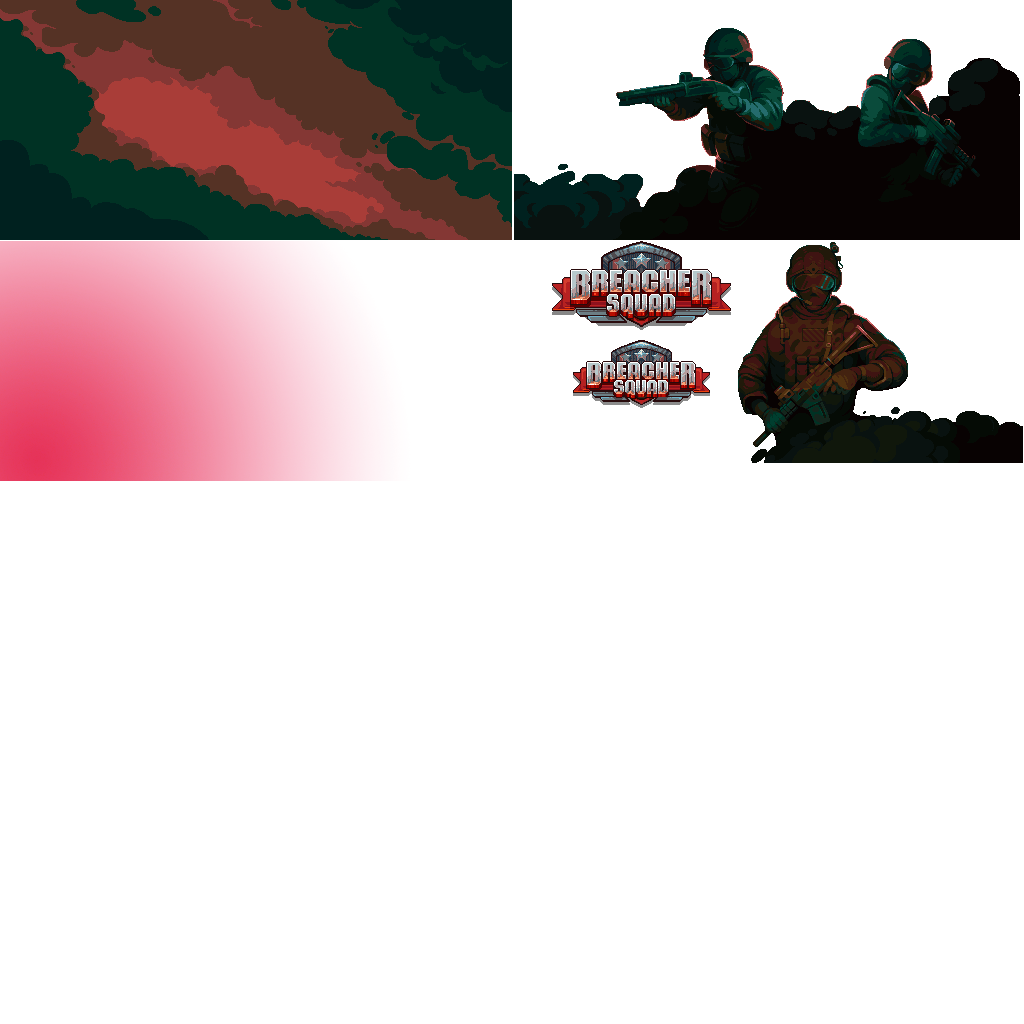
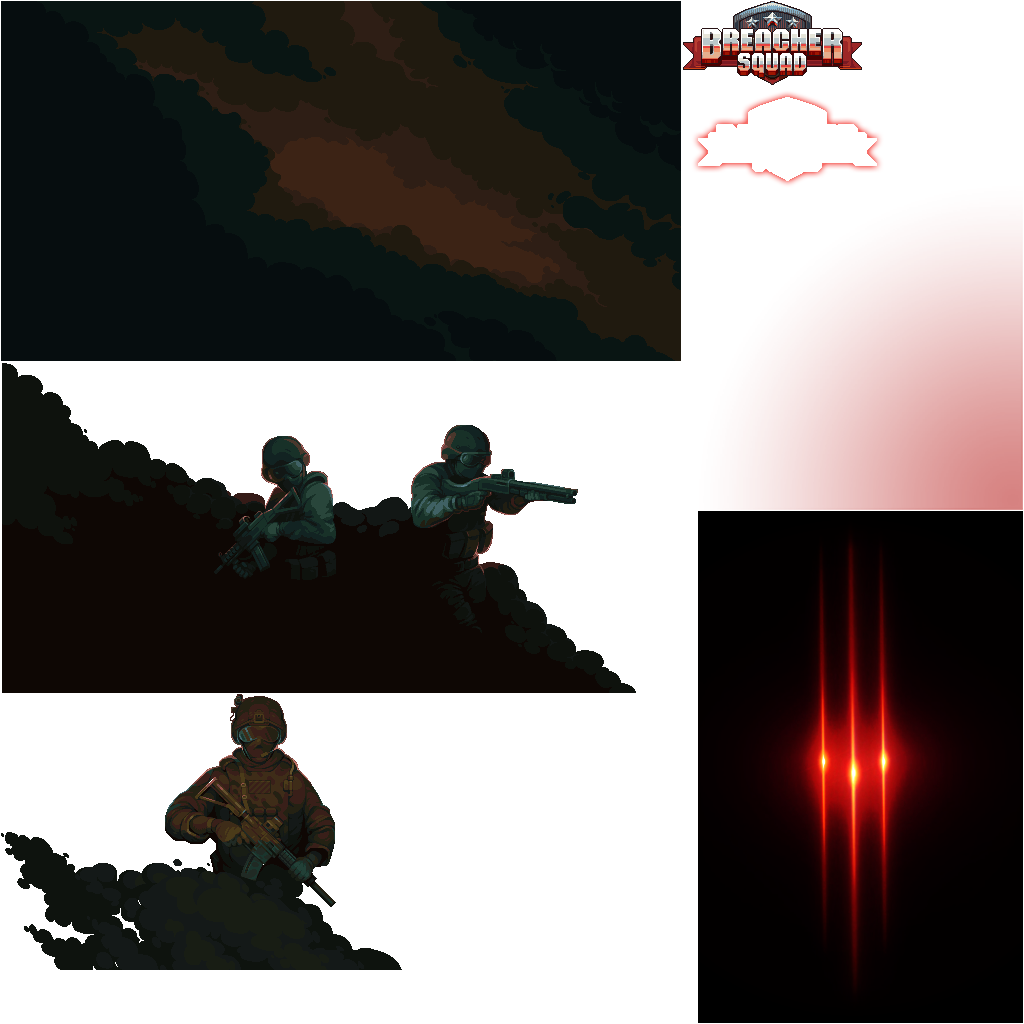
changed main menu art

diff --git a/BreacherSquad/Source/Main.cpp b/BreacherSquad/Source/Main.cpp
@@ -131,7 +131,7 @@ OPRESULT	AfterMount(void);
 // Called after shutting down the device
 void		ShutdownApp(void);
 // Initializes the sound system
-HRESULT		InitSound(void);
+OPRESULT	InitSound(void);
 
 // Transition functions
 void ChangeGameState(eGameState newState, int param1 = 0, int param2 = 0); //are parametru default, in caz ca e necesar
@@ -182,7 +182,8 @@ INT WINAPI WinMain(HINSTANCE hInst, HINSTANCE, LPSTR, int)
 
 	HRESULT hr = S_OK;
 	// Init crash dumper
-	InitMiniDumper();
+	///#TODO: needed?
+	//InitMiniDumper();
 	// init game constants like paths to executable
 	UTApp().Init();
 	// clear debug log file 
@@ -251,16 +252,11 @@ INT WINAPI WinMain(HINSTANCE hInst, HINSTANCE, LPSTR, int)
 
 	// Show the cursor and clip it when in full screen
 	DXUTSetCursorSettings(true, true);
-
 	//for now it can't pause on losing focus
 	g_bCanPause = false;
-
 	if (OP_FAILED(BeforeMount()))
 	{
-		WCHAR szResult[MAX_PATH];
-		StringCchPrintf(szResult, MAX_PATH, L"Ooops, couldn't initialize game (BeforeMount) !\r\nTo fix it, check our support forum or contact us at %s\r\n", K_GAME_EMAIL);
-		MessageBoxW(NULL, szResult, NULL, MB_OK | MB_ICONERROR);
-
+		ErrorBox(K_ERR_CRITICAL, L"Ooops, couldn't initialize game (BeforeMount) !\r\nTo fix it, check our support forum or contact us at %s\r\n", K_GAME_EMAIL );
 		return -1;
 	}
 
@@ -380,7 +376,7 @@ INT WINAPI WinMain(HINSTANCE hInst, HINSTANCE, LPSTR, int)
 #endif
 
 	// Initialize sound
-	V_RETURN(InitSound());
+	V_OP_RET(InitSound());
 
 	//trigger resolution change event immediately
 	CEvent *nevent = new CEvent(CEventTypes::evtT_SYSTEM, CEventCommands::evtC_SYSTEM_RESOLUTION_CHANGE);
@@ -395,10 +391,7 @@ INT WINAPI WinMain(HINSTANCE hInst, HINSTANCE, LPSTR, int)
 	
 	if (OP_FAILED(AfterMount()))
 	{
-		WCHAR szResult[MAX_PATH];
-		StringCchPrintf(szResult, MAX_PATH, L"Ooops, couldn't initialize game (AfterMount) !\r\nTo fix it, check our support forum or contact us at %s\r\n", K_GAME_EMAIL);
-		MessageBoxW(NULL, szResult, NULL, MB_OK | MB_ICONERROR);
-
+		ErrorBox(K_ERR_CRITICAL, L"Couldn't initialize game (AfterMount) !\r\nTo fix it, check our support forum or contact us at %s\r\n", K_GAME_EMAIL );
 		return -1;
 	}
 
@@ -582,7 +575,7 @@ OPRESULT BeforeMount(void)
 
 OPRESULT AfterMount(void)
 {
-	// load the minimum necessary to paint something
+	// load the minimum necessary to paint something (the sprites shader)
 	WCHAR shpath[MAX_PATH];
 	StringCchPrintf(shpath, MAX_PATH, L"%s/shaders/vs_sprites2d.vso", UTApp().g_wszAppResDir);
 	if (OP_FAILED(UTGetShaderManager().AddVShader(shpath, L"VS_SPRITES2D")))
@@ -621,21 +614,19 @@ void ShutdownApp(void)
 // Sound initialization
 //*************************************************************************************************
 
-HRESULT InitSound(void)
+OPRESULT InitSound(void)
 {
-	HRESULT hr = S_OK;
 	// Initialize sound after we have the window
 	//--- init sound system ---
 	if (FAILED(UTGetSoundManager().Init(DXUTGetHWND(), 2, 44100, 16)))
 	{
-		ErrorBox(K_ERR_WARNING, L"Failed INITSOUND->g_pSoundManager->Init()\nSOUNDS WILL BE DISABLED!\n");
-		return hr;
+		return OPRESULT( K_OP_OK_WARNING, L"Failed INITSOUND->g_pSoundManager->Init()\nSOUNDS WILL BE DISABLED!\n", K_SEVERITY_WARNING );
 	}
 
 	UTGetSoundManager().EnablePositionalSounds(Vec2(0.0f, 0.0f), Vec2(UTApp().g_rectRT.w * 0.7f, UTApp().g_rectRT.h * 0.7f));
 	UTGetSoundManager().SetListenerVolumeFadeStart(0.7f);
 
-	return hr;
+	return K_OP_OK;
 }
 
 

diff --git a/BreacherSquad/Source/Engine/MainMenu.cpp b/BreacherSquad/Source/Engine/MainMenu.cpp
@@ -2337,15 +2337,13 @@ void CMainMenu::Paint()
 
 void CMainMenu::PaintBackground(RECTXYWH_F worldRect, DWORD dwColor, bool bPaintParticles, bool bPaintTitle )
 {
+	const Vec2 vLogoPos( 110.0f, 60.0f );
 	//background
-	CSprite::paintFrame(&m_sprColNew, worldRect.Right() - 10.0f * sin(fLocalTimeline * 0.15f), (int)worldRect.y, ANM_MENUS0_SPR_BACKGROUND, 0, dwColor);
-	//paint logo
-	if(bPaintTitle)
-		CSprite::paintFrame(&m_sprColNew, (int)worldRect.x, (int)worldRect.y, ANM_MENUS0_SPR_LOGO_MM, 1);
+	CSprite::paintFrame(&m_sprColNew, worldRect.x - 18.0f * sin(fLocalTimeline * 0.2f), (int)worldRect.y, ANM_MENUS0_SPR_BACKGROUND, 0, dwColor);
 	// chars back layer
-	CSprite::paintFrame(&m_sprColNew, (worldRect.Right() + 8.0f * sin(fLocalTimeline * 0.15f)), (int)worldRect.y, ANM_MENUS0_SPR_BACKGROUND, 1, dwColor);
+	CSprite::paintFrame(&m_sprColNew, (worldRect.x + 18.0f * sin(fLocalTimeline * 0.2f)), (int)worldRect.y, ANM_MENUS0_SPR_BACKGROUND, 1, dwColor);
 	// chars front layer
-	CSprite::paintFrame(&m_sprColNew, (worldRect.Right() + 20.0f * sin(fLocalTimeline * 0.15f)), (int)worldRect.y, ANM_MENUS0_SPR_BACKGROUND, 2, dwColor);
+	CSprite::paintFrame(&m_sprColNew, (worldRect.x + 40.0f * sin(fLocalTimeline * 0.2f)), (int)worldRect.y, ANM_MENUS0_SPR_BACKGROUND, 2, dwColor);
 	//particles
 	if (bPaintParticles)
 	{
@@ -2361,12 +2359,31 @@ void CMainMenu::PaintBackground(RECTXYWH_F worldRect, DWORD dwColor, bool bPaint
 		m_pDevice->SetSamplerState(0, D3DSAMP_MINFILTER, D3DTEXF_POINT);
 		m_pDevice->SetSamplerState(0, D3DSAMP_MAGFILTER, D3DTEXF_POINT);
 	}
+
 	//paint character flickering orange light
 	AdditiveBlendingON(m_pDevice, m_pSprite);
-	float alpha = UTPerlin::PerlinNoise1D(fLocalTimeline, 5.0f, 2.0f, 0.4f, 0.3f, 2);
+	float alpha = 0.4f + UTPerlin::PerlinNoise1D(fLocalTimeline, 3.0f, 2.0f, 0.4f, 0.5f, 2);
+	CLAMP( alpha, 0.0f, 1.0f );
 	//paint flickering right glow
-	CSprite::paintFrame(&m_sprColNew, (int)worldRect.Right(), (int)worldRect.y, ANM_MENUS0_SPR_BACKGROUND, 3, D3DCOLOR_COLORALPHA(dwColor, alpha));
-	AdditiveBlendingOFF(m_pDevice, m_pSprite);
+	Mat mscale;
+	MUMatAffine2D( &mscale, 1.0f, NULL, 0.0f, &Vec2( ( int ) worldRect.Right(), ( int ) worldRect.Bottom() ));
+	m_pSprite->SetTransform( &mscale );
+	CSprite::paintFrame(&m_sprColNew, 0.0f, 0.0f, ANM_MENUS0_SPR_BACKGROUND, 3, D3DCOLOR_COLORALPHA(dwColor, alpha));
+	m_pSprite->SetTransform( &g_matIdentity );
+	// paint logo bg
+	float alphatitle = 0.8f + sin( fLocalTimeline * 2.0f) * 0.2f;
+	DWORD dwTitleCol = D3DCOLOR_COLORALPHA( dwColor, alphatitle );
+	if ( bPaintTitle )
+	{
+		// rays
+		CSprite::paintFrame( &m_sprColNew, vLogoPos.x, vLogoPos.y, ANM_MENUS0_SPR_LOGO_MM, 2, dwTitleCol );
+		// logo glow
+		CSprite::paintFrame( &m_sprColNew, vLogoPos.x, vLogoPos.y, ANM_MENUS0_SPR_LOGO_MM, 1, dwTitleCol );
+	}
+	AdditiveBlendingOFF( m_pDevice, m_pSprite );
+	// logo normal
+	if ( bPaintTitle )
+		CSprite::paintFrame( &m_sprColNew, vLogoPos.x, vLogoPos.y, ANM_MENUS0_SPR_LOGO_MM, 0 );
 }
 
 void CMainMenu::PaintChapterWindow(D3DXVECTOR2 vCenter, int nChapterIdx, DWORD dwColor)
